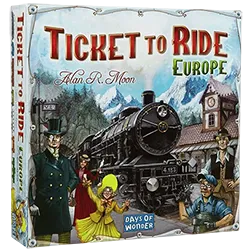
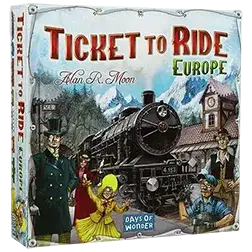
Modal billeder
Billederne der bliver vist i modalen blev før henter fra github, dette er ændret så de nu bliver hentet fra mappen med billeder der ligger lokalt i mit projekt

diff --git a/js/app.js b/js/app.js
@@ -731,8 +731,11 @@ function openModalById(id) {
   // Gemmer det kort brugeren står på, så fokus kan komme tilbage hertil bagefter.
   lastFocusedElement = document.activeElement;
 
-  // Billede
-  mImg.src = g.image;
+  // Bruger den lokale 400 px-version af spilbilledet i modalvinduet.
+  const imageName = g.image.split("/").pop();
+  const imageBase = imageName.replace(".webp", "");
+
+  mImg.src = `images/games/${imageBase}-400.webp`;
   mImg.alt = g.title;
 
   // Viser spillets navn i modalvinduet.
